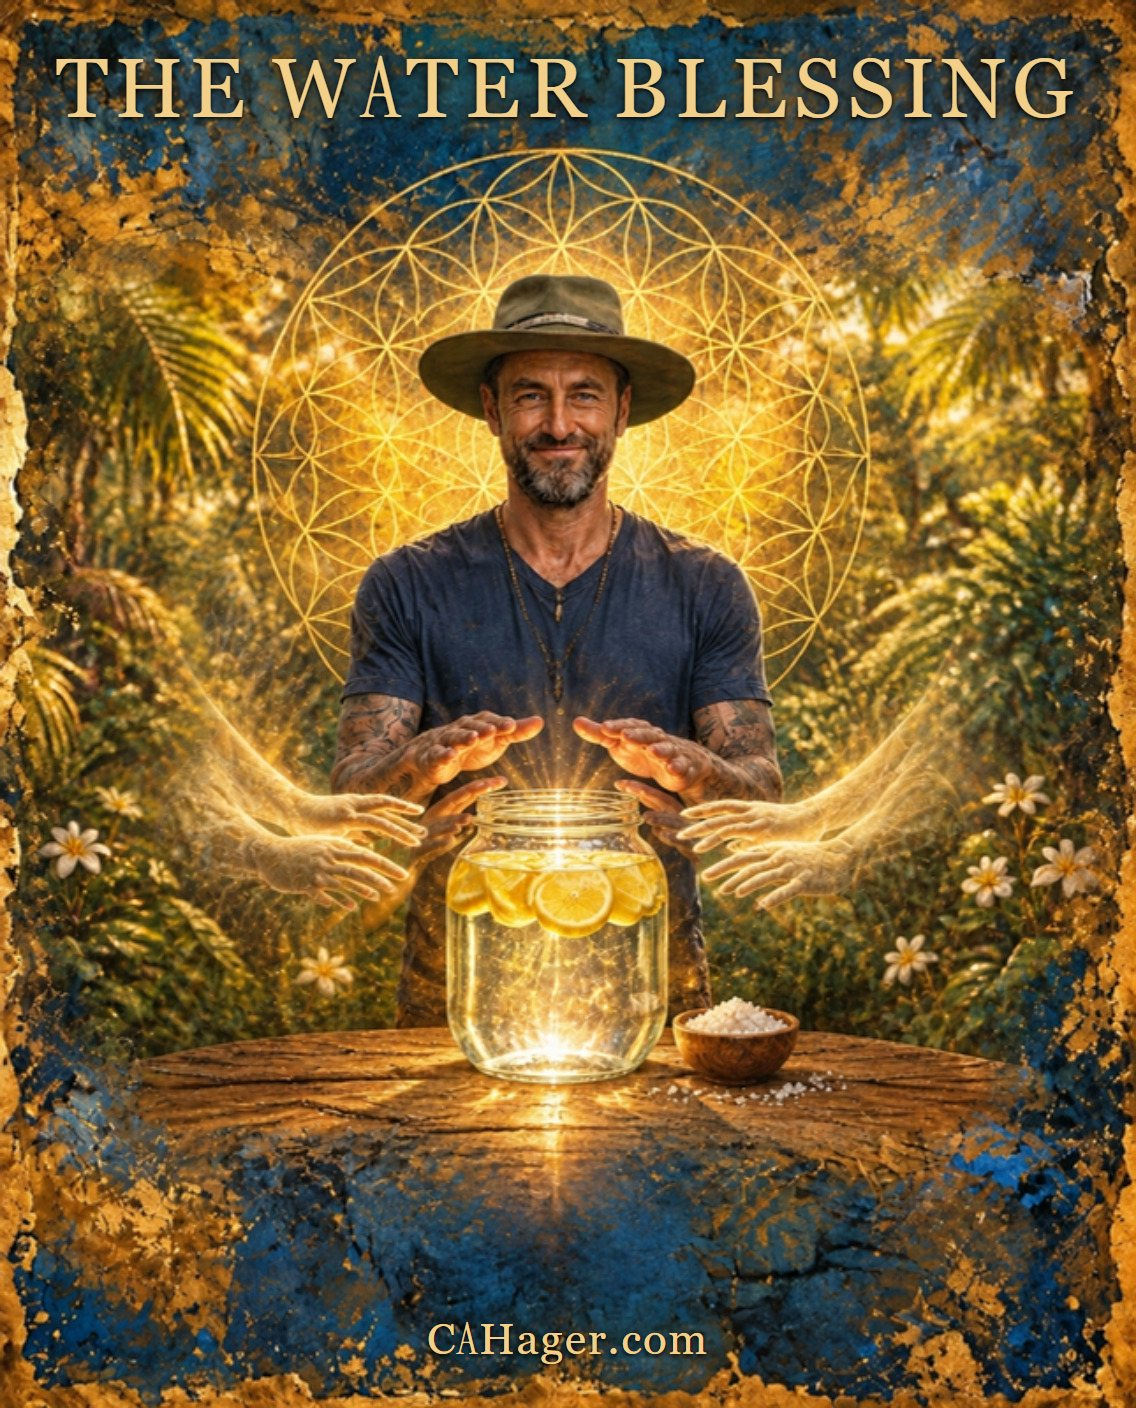
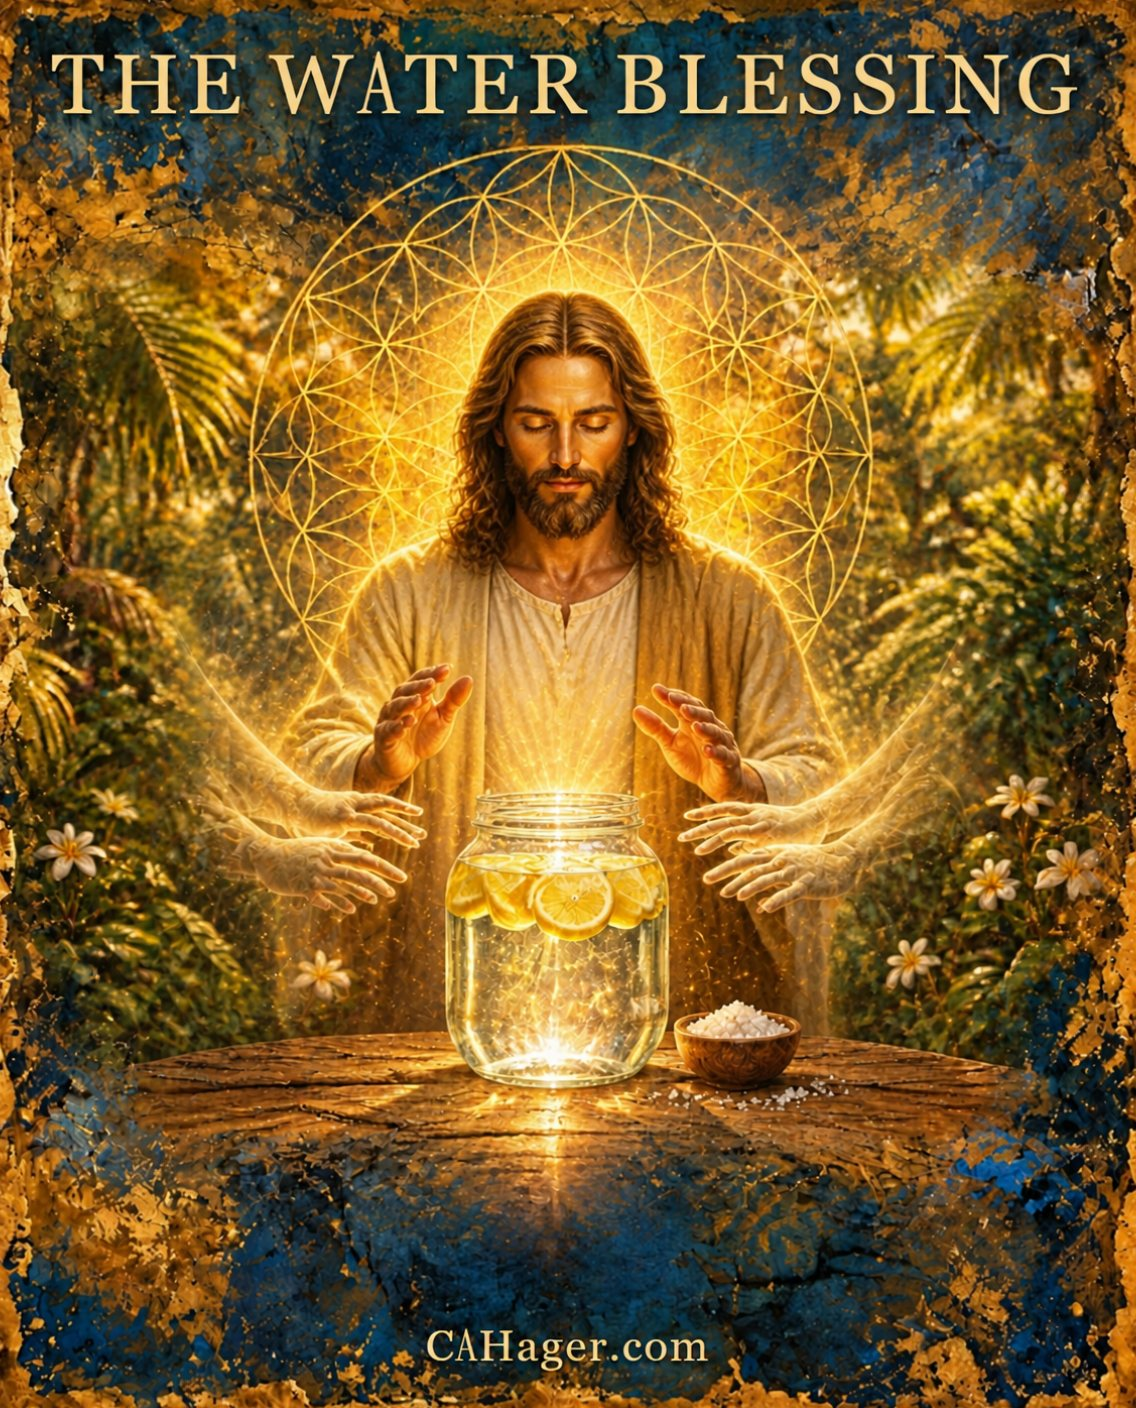
The Water Blessing: Jesus blesses the water now; Christopher is on one card, Divine Masculine

diff --git a/the-water-blessing/index.html b/the-water-blessing/index.html
@@ -92,7 +92,7 @@ body{padding-top:76px !important;}
 
 <main class="card" id="card" aria-label="The Water Blessing, a prayer card">
   <section class="face front" aria-label="The card">
-    <img src="./card.jpg" width="1136" height="1408" alt="Christopher in his wide-brimmed hat holding his hands over a glowing jar of water with lemon slices and a bowl of sea salt, faint translucent angel hands reaching in beside his, in morning light framed by blue and gold stone and sacred geometry.">
+    <img src="./card.jpg" width="1136" height="1408" alt="Jesus, eyes closed, holding his hands in blessing over a glowing jar of water with lemon slices and a bowl of sea salt, faint translucent angel hands reaching in beside his, a flower of life halo behind him, in morning light framed by blue and gold stone.">
   </section>
 
   <section class="face back" aria-label="The prayer">
